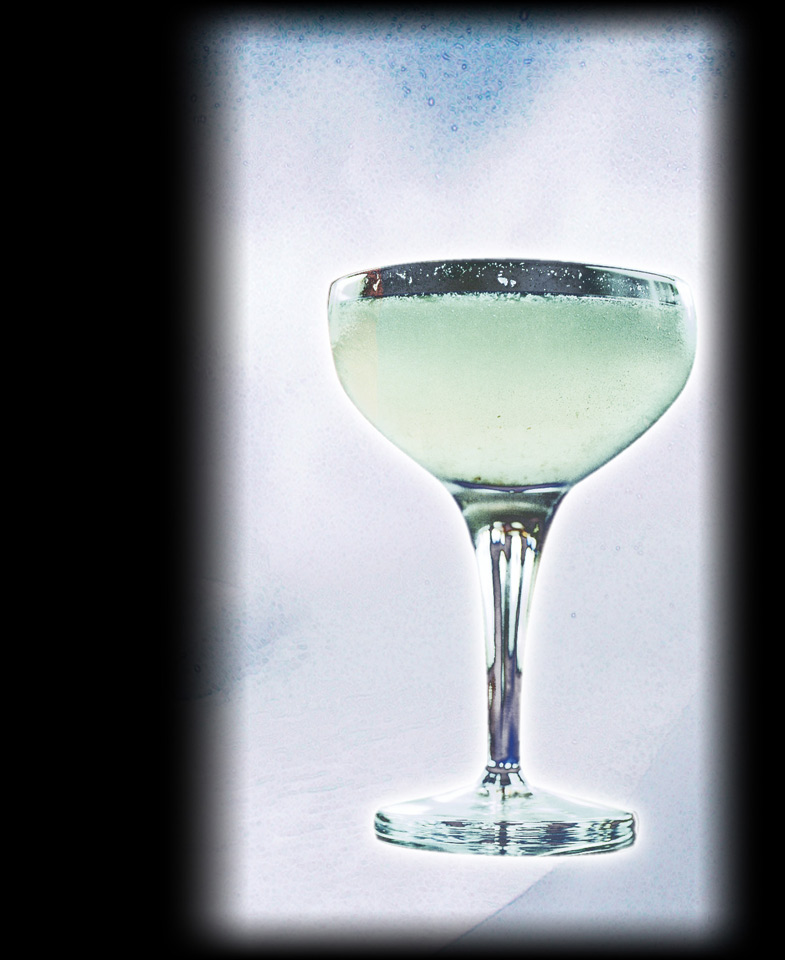
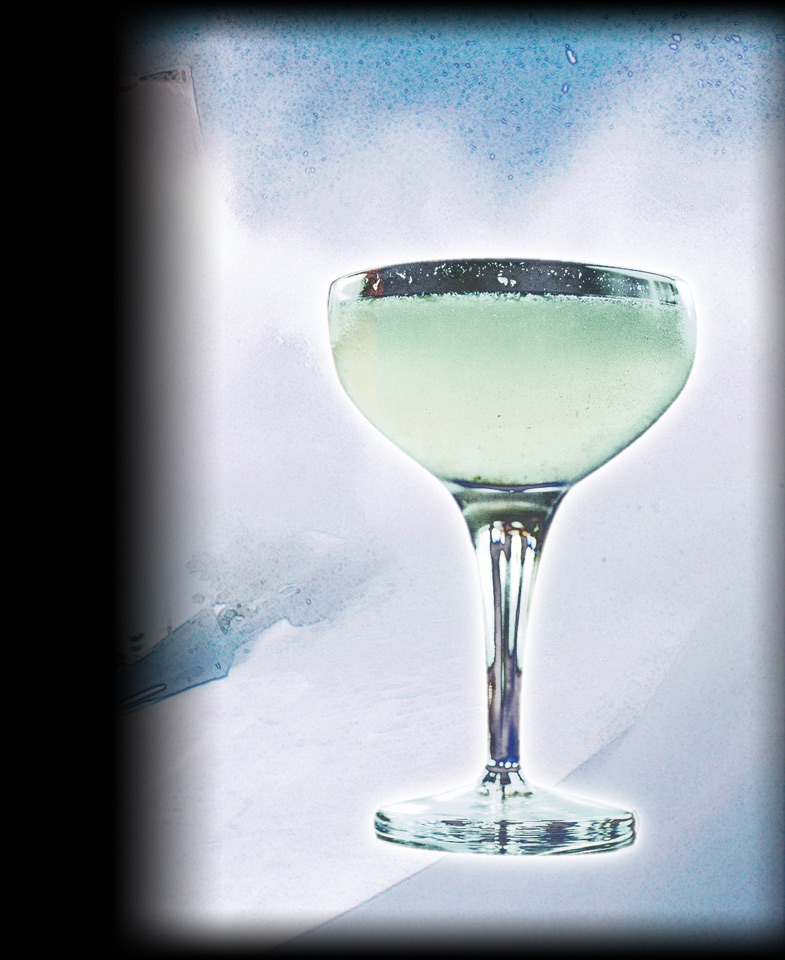
response copy

diff --git a/js/cocktail.js b/js/cocktail.js
@@ -140,7 +140,7 @@
         manhattan: [
 				["Stir with cracked ice; strain into a chilled coctail glass.", "Garnish with a maraschino cherry."],
 				['<a href=".">Manhattan', '2 oz rye or bourbon', '½ oz sweet vermouth', '1 to 2 dashes Angostura bitters', '<b>Cocktail Glass</b>'],
-				["The Manhattan's sound recie base has provided a starting point for a hundred other drinks.","Typically the Manhattan is served sweet and garnished with a maraschino cherry. When made correctly, the vermouth and bitters ony accent the whiskey' flavor. A dry Manhattan calls for French vermouth instead of Italian; garnish it with a twist. A perfect Manhattan, however, calls for ¼ ounce each of sweet and dry vermouth. It's garnished with a twist.","A dash of a cordial like <strong>Cointreau</strong>, <strong>Byrrh</strong> or <strong>Kümmel</strong> will make a Manhattan more complex in taste.", "An Uptown Manhattan is a perfect Manhattan with a splash of lemon juice. The Sidney is a dry Manhattan with a dash of <strong>orange bitters</strong> and a splash of <strong>Chartreuse</strong>.", "Similar drinks include the Rob Roy."]
+				["The Manhattan's sound recipe base has provided a starting point for a hundred other drinks.","Typically the Manhattan is served sweet and garnished with a maraschino cherry. When made correctly, the vermouth and bitters ony accent the whiskey' flavor. A dry Manhattan calls for French vermouth instead of Italian; garnish it with a twist. A perfect Manhattan, however, calls for ¼ ounce each of sweet and dry vermouth. It's garnished with a twist.","A dash of a cordial like <strong>Cointreau</strong>, <strong>Byrrh</strong> or <strong>Kümmel</strong> will make a Manhattan more complex in taste.", "An Uptown Manhattan is a perfect Manhattan with a splash of lemon juice. The Sidney is a dry Manhattan with a dash of <strong>orange bitters</strong> and a splash of <strong>Chartreuse</strong>.", "Similar drinks include the Rob Roy."]
 			],
         daiquiri: [["Shake with cracked ice.","Strain into a chilled cocktail glass.", "Garnish with a lime wheel"],
 				["<a href='.'>Daiquiri</a>", "1½ oz light rum", "¾ oz lime juice", "¼ ounce of simple syrup", "<b>Cocktail Glass</b>"],["No doubt the frozen kiwi-banana Daiquiri and the watermelon-strawberry Daiquiri are superlative choices when training for a drunken balcony-to-balcony climb at a Daytona Beach hotel midway through spring break. But the odss are you're already past that - or somehow resisted such antics in the first place - and can now appreciate an unalduterated Daiquiri.", "Only mildly difficult to prepare, this drink is best served ice-cold. When a dash of <strong>grenadine</strong> is added it's known as a Bacardi Cocktail. If the lime is too tart, add a dash of maraschino, orgeat, or crème d'ananas. Never opt of Rose's lime juice; you'll end up with a mutated Gimlet. Always shake or flash blend the ingredients thoroughly with cracked ice.", "Similar drinks include the Floridita."]],

diff --git a/css/home.css b/css/home.css
@@ -52,7 +52,7 @@ main {
 main>* {
 	filter: sepia();
 	border-width: 0;
-	flex: 1 1 100px;
+	flex: 3 1 100px;
 	position: relative;
 }
 h1 {
@@ -92,10 +92,11 @@ main > * {
     border: dotted 1px yellow;
     padding: 50px;
 }
-
+/*
 .showtime .placeholder {
     padding-right: 50px;
 }
+*/
 fieldset {
 	border: 0
 }
@@ -140,8 +141,8 @@ form li {
 
 main form {
 	box-sizing: border-box;
-	min-width: 550px;
     height: 100%;
+    width: auto;
 }
 
 main > div:first-child {
@@ -217,8 +218,7 @@ fieldset:first-child legend {
 .response .placeholder img{
     object-fit: cover;
 }
-.response #response {
-}
+
 .show main>div {
 	margin: 0 9em 0 0;
 }
@@ -457,6 +457,11 @@ li.unit label:first-child, input[type="number"] {
     background-repeat: no-repeat;
     padding: 1em;
     overflow: hidden;
+    flex: 2 1 100px;
+}
+
+.response #response {
+    flex: 5 1 100px;
 }
 
 #response p {
@@ -468,7 +473,7 @@ li.unit label:first-child, input[type="number"] {
 #response aside {
     margin: 1em 1em 0;
     float: left;
-    width: 200px;
+    width: 250px;
 }
 
 #response img {

diff --git a/js/slideshow.js b/js/slideshow.js
@@ -93,7 +93,7 @@
 		doCurry = utils.curryFactory,
 		cssopacity = getNativeOpacity(!window.addEventListener),
 		event_actions = ['preventDefault', 'stopPropagation', 'stopImmediatePropagation'],
-		drinks = ['dry_martini', 'manhattan', 'margarita', 'mai_tai', 'moscow_mule', 'sidecar', 'julep'],
+		drinks = ['dry_martini', 'manhattan', 'margarita', 'mai_tai', 'moscow_mule', 'sidecar', 'julep', 'daiquiri', 'floridita', 'cosmopolitan'],
 		eventing = utils.eventer,
 		defer_once = doCurry(1, true),
 		twice = doCurry(2),
@@ -380,9 +380,6 @@
 		}
 	}, $('controls')).execute();
 	locate.execute();
-    //con(document.forms[0])
-    
-
 	Looper.onpage = Looper.from(randomSort(_.map(drinks, doImagePath)), doInc(getLength(drinks)));
 }({
 	src: 'img/cbook.jpg'

diff --git a/css/main.css b/css/main.css
@@ -667,7 +667,19 @@ main>article {
         background-position: 80% 40%;
 	}
     
-	#menu-toggle:checked+nav ul li {
+    .c8 header aside {
+		background-image: url("../img/daiquiri.jpg");
+        background-position: 80% 40%;
+	}
+    .c9 header aside {
+		background-image: url("../img/cosmopolitan.jpg");
+        background-position: 80% 40%;
+	}
+    .c10 header aside {
+		background-image: url("../img/floridita.jpg");
+        background-position: 80% 40%;
+	}
+    #menu-toggle:checked+nav ul li {
 		height: 2em;
 		font-size: 1.2em;
 	}

diff --git a/response.php b/response.php
@@ -69,8 +69,8 @@ if (isset($_POST['action']) and $_POST['action'] == 'go')
 {
 ?>
 <div id="response">
-        <aside><img src="img/harrington_book_.jpg"></aside>
-            <p>Sometime in 1997 a friend recently returned from Cuba dropped by, told of his travels and raved about the cocktails imbibed at the famous "La Floradita" bar. The search term 'Floridita' led us to a great little site hosted at www.hotwired.com/cocktail. Classic cocktails were beginning to enjoy something of a <a href="https://www.berkeleyside.com/2017/09/15/west-coast-cocktail-revival-started-emeryville-thanks-man">renaissance</a>, not least due to the efforts of<a href="http://frodelius.com/goodspiritsnews/paulharrington.html"> Paul Harrington</a>, who had penned the hotwired articles and was practising what he preached at the Townhouse Bar &#38; Grill in Emeryville, CA. There was enough material to justify publishing a companion book <a href="https://www.amazon.co.uk/Cocktail-Paul-Harrington/dp/0670880221/ref=sr_1_2?dchild=1&keywords=paul+harrington&qid=1615892712&s=books&sr=1-2" title="by Paul Harrington and Laura Moorhead. Illustrations by Douglas Bowman.">“Cocktail”</a> which appeared in the following year. The hardcover book is a treasure trove and, as I soon discovered, deserved better than being pawed over in the kitchen at party time. A bar-friendly digest was in order. Taking inspiration from the wonderful <a href="https://dribbble.com/shots/18495-Frisco">illustrations</a> in “Cocktail”, I got to down to some serious photoshopping, sneaked in a cheeky print run and produced a comb-bound booklet, or three, of, mostly, classic cocktail recipes.</p><p>When I enrolled in a web design refresher course many years later I had a brainwave. Why not re-purpose the booklet as my chosen personal project. By this time the original hotwired site was long gone, but an archive of sorts was maintained by enthusiasts at <a href="https://www.chanticleersociety.org/index.php?title=Main_Page">The Chanticleer Society</a>. I was able to grab some copy and complete my project.</p><p>On embarking upon this responsive version of that old project I discovered the Chanticleer archive was no longer to be found. Shame. However, all is not lost. Quoted searches from passages of the book will still fetch up Harrington's original copy in various sites, often uncredited. I also discovered discrepancies between the hotwired articles and the printed version. Due no doubt to the constraints of the printed page it was clear that most articles had gone through a few rounds of judicious editing. The text on this site is a facsimile of the published book, one of two in my possession. You can still pick up a <a href= "https://www.amazon.co.uk/Cocktail-Paul-Harrington/dp/0670880221/ref=sr_1_2?dchild=1&keywords=paul+harrington&qid=1615892712&s=books&sr=1-2--">copy</a> on Amazon, albeit for the price of a very good single malt. I do aspire to get the thing into a database at some point, although it may very well drive me to drink. Speaking of which...
+        <aside><img src="img/cocktail_book.jpg"></aside>
+            <p>Sometime in 1997 a friend, recently returned from Cuba, dropped by, told of his travels and raved about the cocktails imbibed at the famous "La Floradita" bar in Havana. The search term 'Floridita' led us to a great little site hosted at www.hotwired.com/cocktail. Classic cocktails were beginning to enjoy something of a <a href="https://www.berkeleyside.com/2017/09/15/west-coast-cocktail-revival-started-emeryville-thanks-man">renaissance</a>, not least due to the efforts of<a href="http://frodelius.com/goodspiritsnews/paulharrington.html"> Paul Harrington</a>, who had penned a series of articles for hotwired and was practising what he preached at the Townhouse Bar &#38; Grill in Emeryville, CA. There was enough material to justify publishing a companion book <a href="https://www.amazon.co.uk/Cocktail-Paul-Harrington/dp/0670880221/ref=sr_1_2?dchild=1&keywords=paul+harrington&qid=1615892712&s=books&sr=1-2" title="by Paul Harrington and Laura Moorhead. Illustrations by Douglas Bowman.">“Cocktail”</a> which appeared the following year. The hardcover book is a treasure trove and truly deserved better than being pawed over in the kitchen at party time. A bar-friendly digest was in order. Inspired by the wonderful <a href="https://dribbble.com/shots/18495-Frisco">illustrations</a> in “Cocktail”, I got to down to some weekend photoshopping, sneaked in a cheeky print run and produced a comb-bound booklet, or three, of, chiefly, classic cocktail recipes.</p><p>When I enrolled in a web design refresher course many years later I decided to re-purpose the booklet as my chosen personal project. By this time the original hotwired site was long gone, but an archive of sorts was maintained by enthusiasts at <a href="https://www.chanticleersociety.org/index.php?title=Main_Page">The Chanticleer Society</a>. I was able to grab some copy and complete my project.</p><p>Some six years on from that project I discovered the Chanticleer archive was no longer to be found. Shame. However, all is not lost. Quoted searches from passages of the book will still fetch up Harrington's original copy in various sites, often uncredited. There are a few discrepancies between the web articles and the printed version so the text on this site is a facsimile of the published book, my copy still survives, it is pictured left. You can still pick up a <a href= "https://www.amazon.co.uk/Cocktail-Paul-Harrington/dp/0670880221/ref=sr_1_2?dchild=1&keywords=paul+harrington&qid=1615892712&s=books&sr=1-2--">copy</a> on Amazon, albeit for the price of a very good single malt. I do aspire to get the thing into a database at some point, although it may very well drive me to drink. Speaking of which...
             </p>              
     <?php
     /*We present the result in a table so first have to hang-on to the VALUE of the ingredient, store in a closure and on the next pass invoke the table row with the VALUE of the measure. This in itself is a composite of number and unit, two more closures.
@@ -144,7 +144,7 @@ else
       <form  action="." method="post">
         <fieldset><legend>or  mix your own...</legend></fieldset>
         <ul>
-            <li><label for="cocktail">Name</label><input type="text" name="cocktail" id="cocktail" placeholder="">
+            <li><label for="cocktail">Name</label><input type="text" name="cocktail" id="cocktail" placeholder="Quarantini">
             <li id="reset"><input type="reset" name="reset" value="X" title="Reset the form"></li>
             <li><label for="spirit">Base Spirit</label><select name="spirit" id="spirit">
                 <option value="">Your poison...</option>

diff --git a/index.php b/index.php
@@ -47,6 +47,7 @@ include 'response.php';
     <script src="js/classlist.js"></script>
     <script src="js/basicIterator.js"></script>
     <script src="js/global.js"></script>
+    <script src="js/slideshow.js"></script>
           <script>
         var hijax = window.speakEasy.Hijax(),
             c = speakEasy.Util.$('response');              
